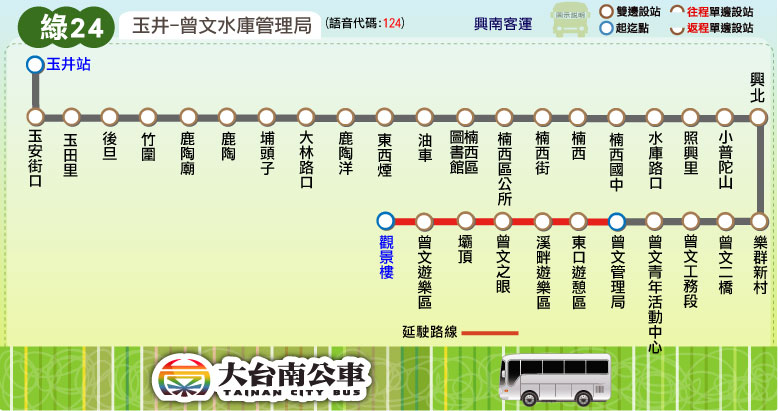
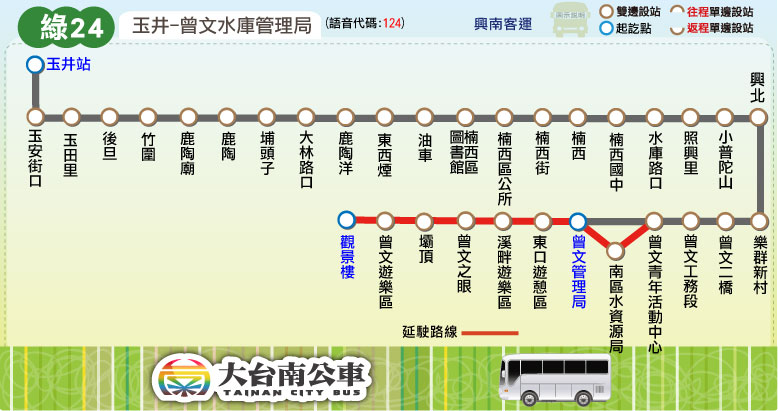
更新時刻表：綠24、藍2、黃5； 更新路線圖：綠24(繞駛南區水資源局)、藍2(繞駛蘆竹溝)、黃5(繞駛吳晉淮音樂紀念館)； 更新票價表：黃5

diff --git a/route/fare_and_time/blue_2.js b/route/fare_and_time/blue_2.js
@@ -5,7 +5,7 @@ blue_2_interval_stop = [
 ["營頂","溪州","大灣","清濟宮"], // 大灣
 ["東寮","學甲區公所","學甲","學甲市場","西學甲","下溪洲"], // 學甲
 ["光華","東中洲"], // 東中洲
-["西廍","二重港","溪底寮","北門國中","西保宮","溪仔寮","泰安宮","井仔腳","西山"], // 溪底寮
+["西廍","二重港","溪底寮","文山派出所","東三寮灣","三寮灣","蘆竹溝","北門國中","西保宮","溪仔寮","泰安宮","井仔腳","西山"], // 溪底寮
 ["北門區公所","北門","北門橋頭"], // 北門
 ["小蚵寮","蚵寮","南鯤鯓"] // 南鯤鯓
 ];
@@ -22,10 +22,10 @@ blue_2_fare = [
 // format = [time at the start stop] or
 // [time, other] or
 // [time, start_stop, end_stop, other]
-blue_2_main_stop_name = ["佳里","奇美<br />佳里分院","大灣","學甲","東中洲","溪底寮","北門國中","井仔腳","北門","南鯤鯓"];
+blue_2_main_stop_name = ["佳里站","奇美<br />佳里分院","大灣","學甲","東中洲","溪底寮","北門國中","井仔腳","北門","南鯤鯓"];
 blue_2_main_stop_time_consume = [0, 5, 10, 15, 20, 24, 27, 30, 37, 45];
-blue_2_important_stop = [0, 3, 7, 9]; // 佳里, 學甲, 井仔腳, 南鯤鯓
-blue_2_time_go = [["06:00",[7,[8,-7,9,-3]]],["06:30",[7,[8,-7,9,-3]]],["08:00"],["09:10"],["11:00"],["12:10"],["13:20"],["14:30"],
-["16:10"],["17:30"],["18:30"],["19:50",[7,[8,-7,9,-3]]],["20:30",[7,[8,-7,9,-3]]],["21:10",[7,[8,-7,9,-3]]],["22:00",[7,[8,-7,9,-3]]]];
-blue_2_time_return = [["06:35",[7,[8,-3,6,-7]]],["07:10",[7,[8,-3,6,-7]]],["08:45"],["09:55"],["11:45"],["12:55"],["14:05"],["15:15"],
-["16:55"],["18:15"],["19:15"],["20:30",[7,[8,-3,6,-7]]],["21:10",[7,[8,-3,6,-7]]],["22:00",[7,[8,-3,6,-7]]],["22:35",[7,[8,-3,6,-7]]]];
+blue_2_important_stop = [0, 3, 7, 9]; // 佳里站, 學甲, 井仔腳, 南鯤鯓
+blue_2_time_go = [["06:00",[7,[8,-7,9,-3]]],["06:30",['繞',7,[8,-7,9,-3]]],["08:00"],["09:10"],["11:00"],["12:10"],["13:20"],["14:30"],
+["15:50"],["17:30"],["18:30"],["19:50",[7,[8,-7,9,-3]]],["20:30",[7,[8,-7,9,-3]]],["21:10",[7,[8,-7,9,-3]]],["22:00",[7,[8,-7,9,-3]]]];
+blue_2_time_return = [["06:35",[7,[8,-3,6,-7]]],["07:15",[7,[8,-3,6,-7]]],["08:45"],["09:55"],["11:45"],["12:55"],["14:05"],["15:15"],
+["16:45",['繞']],["18:15"],["19:15"],["20:30",[7,[8,-3,6,-7]]],["21:10",[7,[8,-3,6,-7]]],["22:00",[7,[8,-3,6,-7]]],["22:35",[7,[8,-3,6,-7]]]];

diff --git a/route/fare_and_time/green_24.js b/route/fare_and_time/green_24.js
@@ -3,7 +3,7 @@ green_24_interval_stop = [
 ["玉井站","玉安街口","玉田里"], // 玉井
 ["後旦","竹圍","鹿陶廟","鹿陶","埔頭子","大林路口","鹿陶洋","東西煙"], // 鹿陶洋
 ["油車","楠西區圖書館","楠西區公所","楠西街","楠西","楠西國中","水庫路口"], // 楠西
-["照興里","小普陀山","興北","樂群新村","曾文二橋","曾文工務段","曾文青年活動中心","曾文管理局"], // 曾文
+["照興里","小普陀山","興北","樂群新村","曾文二橋","曾文工務段","曾文青年活動中心","南區水資源局","曾文管理局"], // 曾文
 ["東口遊憩區","溪畔遊樂區","曾文之眼","壩頂","曾文遊樂區","觀景樓"] // 曾文水庫
 ];
 green_24_fare = [
@@ -16,8 +16,10 @@ green_24_fare = [
 // format = [time at the start stop] or
 // [time, other] or
 // [time, start_stop, end_stop, other]
-green_24_main_stop_name = ["玉井","鹿陶","鹿陶洋","楠西","興北","曾文<br />管理局","觀景樓"];
+green_24_main_stop_name = ["玉井站","鹿陶","鹿陶洋","楠西","興北","曾文<br />管理局","觀景樓"];
 green_24_main_stop_time_consume = [0, 7, 9, 15, 20, 25, 40];
-green_24_important_stop = [0, 3, 5, 6]; // 玉井, 楠西, 曾文管理局, 觀景樓
-green_24_time_go = [["07:20",0,5],["09:00",0,5],["09:30"],["10:35",0,5],["12:15",['W']],["14:00"],["15:05",0,5],["16:55",0,5],["17:20",['H']]];
-green_24_time_return = [["07:45",5,0],["09:25",5,0],["10:10"],["11:00",5,0],["12:55",['W']],["14:40"],["15:30",5,0],["17:20",5,0],["18:00",['H']]];
+green_24_important_stop = [0, 3, 5, 6]; // 玉井站, 楠西, 曾文管理局, 觀景樓
+var Yujing = 0; // 玉井站
+var Zengwun_Administration = 5; // 曾文管理局
+green_24_time_go = [["07:20",Yujing,Zengwun_Administration,['繞',[Zengwun_Administration,5]]],["09:00",Yujing,Zengwun_Administration],["09:30"],["10:35",Yujing,Zengwun_Administration],["11:40",Yujing,Zengwun_Administration],["12:15",['W']],["14:00"],["15:05",Yujing,Zengwun_Administration],["16:55",Yujing,Zengwun_Administration],["17:20",['H']]];
+green_24_time_return = [["07:50",Zengwun_Administration,Yujing],["09:25",Zengwun_Administration,Yujing],["10:10"],["11:00",Zengwun_Administration,Yujing],["12:05",Zengwun_Administration,Yujing],["12:55",['W']],["14:40"],["15:30",Zengwun_Administration,Yujing],["17:20",Zengwun_Administration,Yujing],["18:00",['H']]];

diff --git a/route/fare_and_time/yellow_5.js b/route/fare_and_time/yellow_5.js
@@ -3,7 +3,7 @@ yellow_5_interval_stop = [ // 2018.11.18 checked
 ["新營站","新營鐵道地景公園","中營興業里","中山路","第一市場","真武殿","南光中學"], // 新營
 ["副產","實驗所"], // 副產
 ["柳營奇美醫院","鳳和中學","柳營火車站","柳營代天院"], // 柳營火車站
-["劉家古厝","八翁里","八老爺"], // 八老爺
+["劉家古厝","吳晉淮音樂紀念館","八翁里","八老爺"], // 八老爺
 ["賀建里","十六甲","中庄"], // 中庄
 ["紅毛厝","顏姓祖厝","下營區公所","下營廟前"] // 下營
 ];
@@ -11,19 +11,19 @@ yellow_5_fare = [
 [26],
 [26,26],
 [26,26,26],
-[28,26,26,26],
+[27,26,26,26],
 [42,33,26,26,26],
-[48,39,30,26,26,26]
+[51,42,32,26,26,26]
 ];
 // format = [time at the start stop] or
 // [time, other] or
 // [time, start_stop, end_stop, other]
-yellow_5_main_stop_name = ["新營站","柳營<br />火車站","八老爺","紅毛厝","下營<br />區公所","下營廟前"];
-yellow_5_main_stop_time_consume = [0, 14, 18, 27, 29, 30];
-yellow_5_important_stop = [0, 1, 5]; // 新營站, 柳營火車站, 下營廟前
+yellow_5_main_stop_name = ["新營站","柳營<br />火車站","吳晉淮音<br />樂紀念館","八老爺","紅毛厝","下營<br />區公所","下營廟前"];
+yellow_5_main_stop_time_consume = [0, 14, 20, 24, 33, 35, 36];
+yellow_5_important_stop = [0, 1, 6]; // 新營站, 柳營火車站, 下營廟前
 var Sinying = 0; // 新營站
 var TRA_Liouying = 1; // 柳營火車站
-var Balaoye = 2; // 八老爺
-var Hongmaocuo = 3; // 紅毛厝
-yellow_5_time_go = [["08:20"],["09:30",['L']],["12:15"],["16:00",['L']],["17:15",['H']]];
-yellow_5_time_return = [["09:00",[[Hongmaocuo,1,Sinying,-1]]],["12:30",['L',[Hongmaocuo,1,TRA_Liouying,1,Sinying,-2]]],["13:00",[[Hongmaocuo,1,Balaoye,-1]]],["16:35",['L',[Hongmaocuo,1,TRA_Liouying,1,Sinying,3]]],["18:00",['H',[Hongmaocuo,1,Balaoye,-2,Sinying,1]]]];
+var Balaoye = 3; // 八老爺
+var Hongmaocuo = 4; // 紅毛厝
+yellow_5_time_go = [["08:20"],["09:30",['L']],["12:10"],["15:50",['L']],["17:15",['H']]];
+yellow_5_time_return = [["09:05",[[Hongmaocuo,1,Sinying,-2]]],["12:30",['L',[Hongmaocuo,1,Sinying,-2]]],["12:55",[[Hongmaocuo,1,Balaoye,-1,Sinying,-1]]],["16:35",['L',[Hongmaocuo,1,Sinying,3]]],["18:00",['H',[Hongmaocuo,1,Balaoye,-2]]]];

diff --git a/green/green_24.html b/green/green_24.html
@@ -20,7 +20,7 @@
 	block_route_map(null);
 	block_route_info(route_interval,'興南客運','','里程計費','http://www.2384.com.tw/ebus/jsp/ajaxBus.jsp?pathId=1124&locale=zh_TW');
 	block_fare(0, null);
-	block_time_schedule('玉井','曾文管理局/觀景樓',W_message+'；'+H_message);
+	block_time_schedule('玉井','曾文管理局/觀景樓',W_message+'；'+H_message+'<br /><p>「<span style="color:blue;">繞</span>」表示繞駛南區水資源局</p>');
 	block_transfer(transfer_yujing);
 	block_copyright();
 </script>

diff --git a/blue/blue_2.html b/blue/blue_2.html
@@ -20,7 +20,7 @@
 	block_route_map(null);
 	block_route_info(route_interval,'興南客運','','里程計費','http://www.2384.com.tw/ebus/jsp/ajaxBus.jsp?pathId=1202&locale=zh_TW');
 	block_fare(0, null);
-	block_time_schedule('佳里','南鯤鯓','');
+	block_time_schedule('佳里','南鯤鯓','<p>「<span style="color:blue;">繞</span>」表示繞駛蘆竹溝</p>');
 	block_transfer(transfer_jiali + transfer_syuejia + transfer_beimen + transfer_south_kunshen);
 	block_copyright();
 </script>
